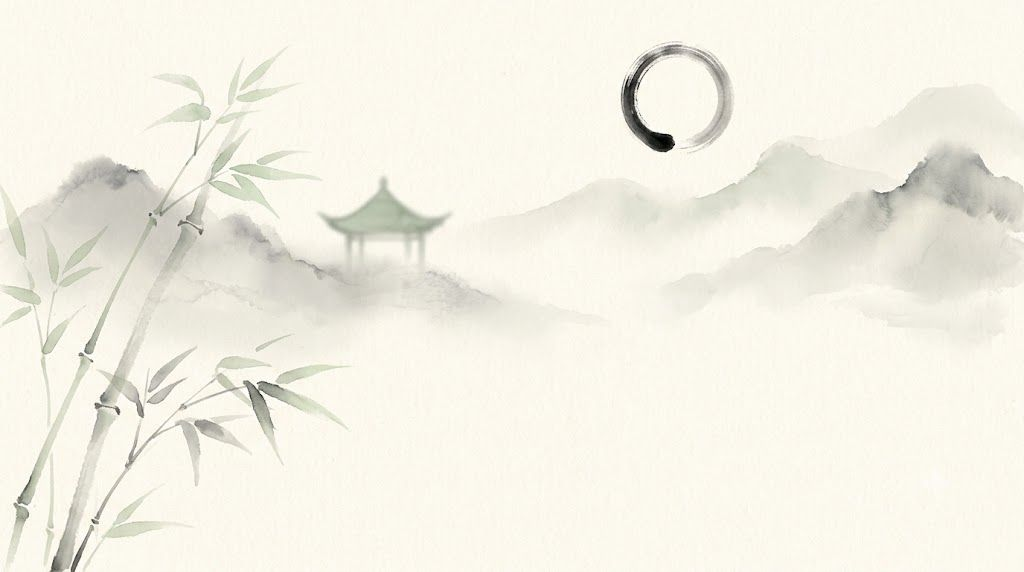
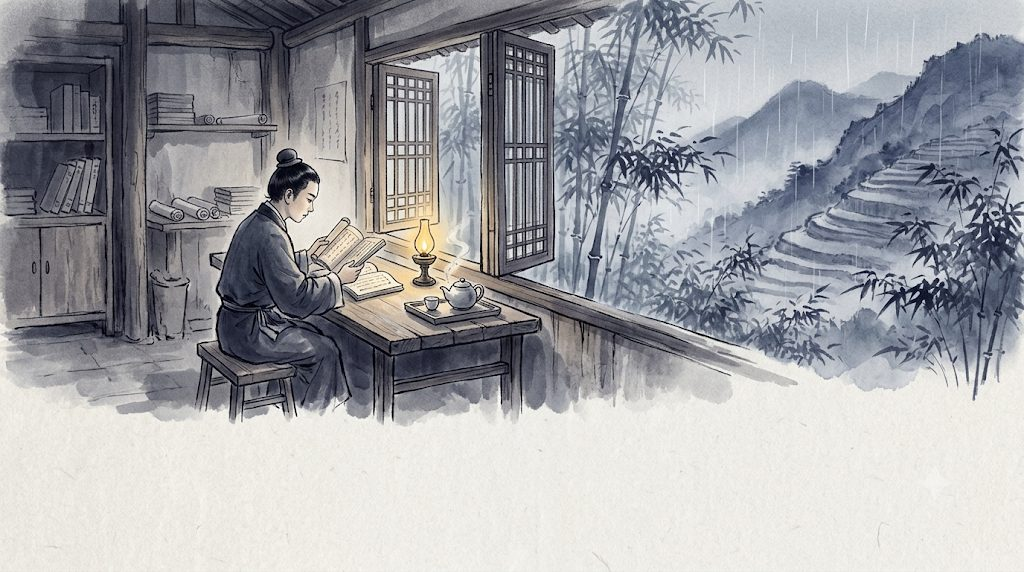
Đổi tên đầu trang, ảnh bìa trang chủ, ảnh ngẫu nhiên khi vào bài
Claude-Session: https://claude.ai/code/session_01EY3H2VVwqKbgooEjBMB8sJ

diff --git a/index.html b/index.html
@@ -225,11 +225,15 @@ label.btn:hover { background: var(--hover); }
 .linkbtn { font: inherit; font-size: 15px; background: none; border: 0; padding: 0; color: var(--ink); text-decoration: underline; cursor: pointer; }
 #home[hidden], #practice[hidden] { display: none; }
 #home { position: relative; isolation: isolate; }
-#home::before { content: ""; position: absolute; z-index: -1; left: 50%; top: -12px; width: min(1100px, 100vw); height: 460px; transform: translateX(-50%); pointer-events: none;
-  background: url(home-bg.jpg) center top / cover no-repeat; opacity: .5; mix-blend-mode: multiply;
-  -webkit-mask-image: linear-gradient(to bottom, #000 45%, transparent 100%); mask-image: linear-gradient(to bottom, #000 45%, transparent 100%); }
-@media (prefers-color-scheme: dark) { :root:not([data-theme="light"]) #home::before { filter: invert(1) hue-rotate(180deg); mix-blend-mode: screen; opacity: .1; } }
-:root[data-theme="dark"] #home::before { filter: invert(1) hue-rotate(180deg); mix-blend-mode: screen; opacity: .1; }
+.homecover { display: block; width: 100%; aspect-ratio: 1024 / 520; max-height: 340px; object-fit: cover; object-position: center top; border-radius: 16px;
+  -webkit-mask-image: linear-gradient(to bottom, #000 62%, transparent 100%); mask-image: linear-gradient(to bottom, #000 62%, transparent 100%); }
+@media (prefers-color-scheme: dark) { :root:not([data-theme="light"]) .homecover { filter: invert(1) hue-rotate(180deg); opacity: .35; } }
+:root[data-theme="dark"] .homecover { filter: invert(1) hue-rotate(180deg); opacity: .35; }
+#home > header { position: relative; margin-top: -44px; }
+.lbanner { display: block; width: 100%; height: auto; aspect-ratio: 1024 / 440; object-fit: cover; object-position: center; border-radius: 16px; border: 1px solid var(--line); background: var(--tile); }
+.lbanner[hidden] { display: none; }
+@media (prefers-color-scheme: dark) { :root:not([data-theme="light"]) .lbanner { filter: brightness(.85); } }
+:root[data-theme="dark"] .lbanner { filter: brightness(.85); }
 #home, #practice { display: flex; flex-direction: column; gap: 20px; }
 
 .app { display: block; }
@@ -294,12 +298,13 @@ button.tkitem { cursor: pointer; text-decoration: underline; text-decoration-col
 <div class="app">
   <div class="ticker" id="ticker" role="region" aria-label="Thông báo cập nhật" hidden><span class="tkbadge">Mới</span><div class="tkview"><div class="tktrack" id="tktrack"></div></div><button class="tkx" id="tkx" type="button" aria-label="Ẩn thông báo">×</button></div>
   <div class="topbar">
-    <button class="brand" id="brandbtn" type="button" aria-label="Về trang chủ"><span class="logo">汉</span><span class="bname">Luyện dịch câu</span></button>
+    <button class="brand" id="brandbtn" type="button" aria-label="Về trang chủ"><span class="logo">汉</span><span class="bname">Luyện dịch Việt-Trung</span></button>
     <button class="tab homebtn" id="tab-home" type="button" aria-selected="true" data-view="home"><svg viewBox="0 0 24 24" width="18" height="18" fill="none" stroke="currentColor" stroke-width="2" stroke-linecap="round" stroke-linejoin="round" aria-hidden="true"><path d="M3 11l9-8 9 8"/><path d="M5 10v10h14V10"/></svg>Trang chủ</button>
   </div>
   <div class="content">
     <div id="home"></div>
     <div id="practice" hidden>
+    <img class="lbanner" id="lbanner" alt="" width="1024" height="440" hidden>
     <header>
       <span class="pill" id="lessonpill"></span>
       <h1>Luyện dịch Việt-Trung từ Podcast</h1>
@@ -1192,8 +1197,16 @@ function showView(v) {
   markTabs();
   window.scrollTo(0, 0);
 }
+var COVERS = ["cover1.jpg", "cover2.jpg", "cover3.jpg", "cover4.jpg", "cover5.jpg"], lastCover = -1;
+function randomCover() {
+  var im = document.getElementById("lbanner"); if (!im) return;
+  var k; do { k = Math.floor(Math.random() * COVERS.length); } while (k === lastCover && COVERS.length > 1);
+  lastCover = k; im.onload = function () { im.hidden = false; }; im.onerror = function () { im.hidden = true; };
+  im.hidden = true; im.src = COVERS[k];
+}
 function startLesson(i, mode) {
   setLesson(i); if (mode) state.mode = mode;
+  randomCover();
   paintHeader(); showView("practice"); startRound();
 }
 document.querySelectorAll(".tab[data-mode]").forEach(function (t) {
@@ -1223,6 +1236,7 @@ function srcEl(L, cls) {
 }
 function paintHome() {
   var h = document.getElementById("home"); h.textContent = "";
+  var cov = el("img", "homecover"); cov.src = "home-bg.jpg"; cov.alt = ""; cov.width = 1024; cov.height = 520; h.appendChild(cov);
   var hero = el("header");
   hero.appendChild(el("h1", "", "Luyện dịch Việt-Trung từ Podcast"));
   hero.appendChild(el("p", "lead", "Mỗi bài là một tập podcast. Nghe trước, rồi dịch lại những câu trong tập từ tiếng Việt sang tiếng Trung."));
